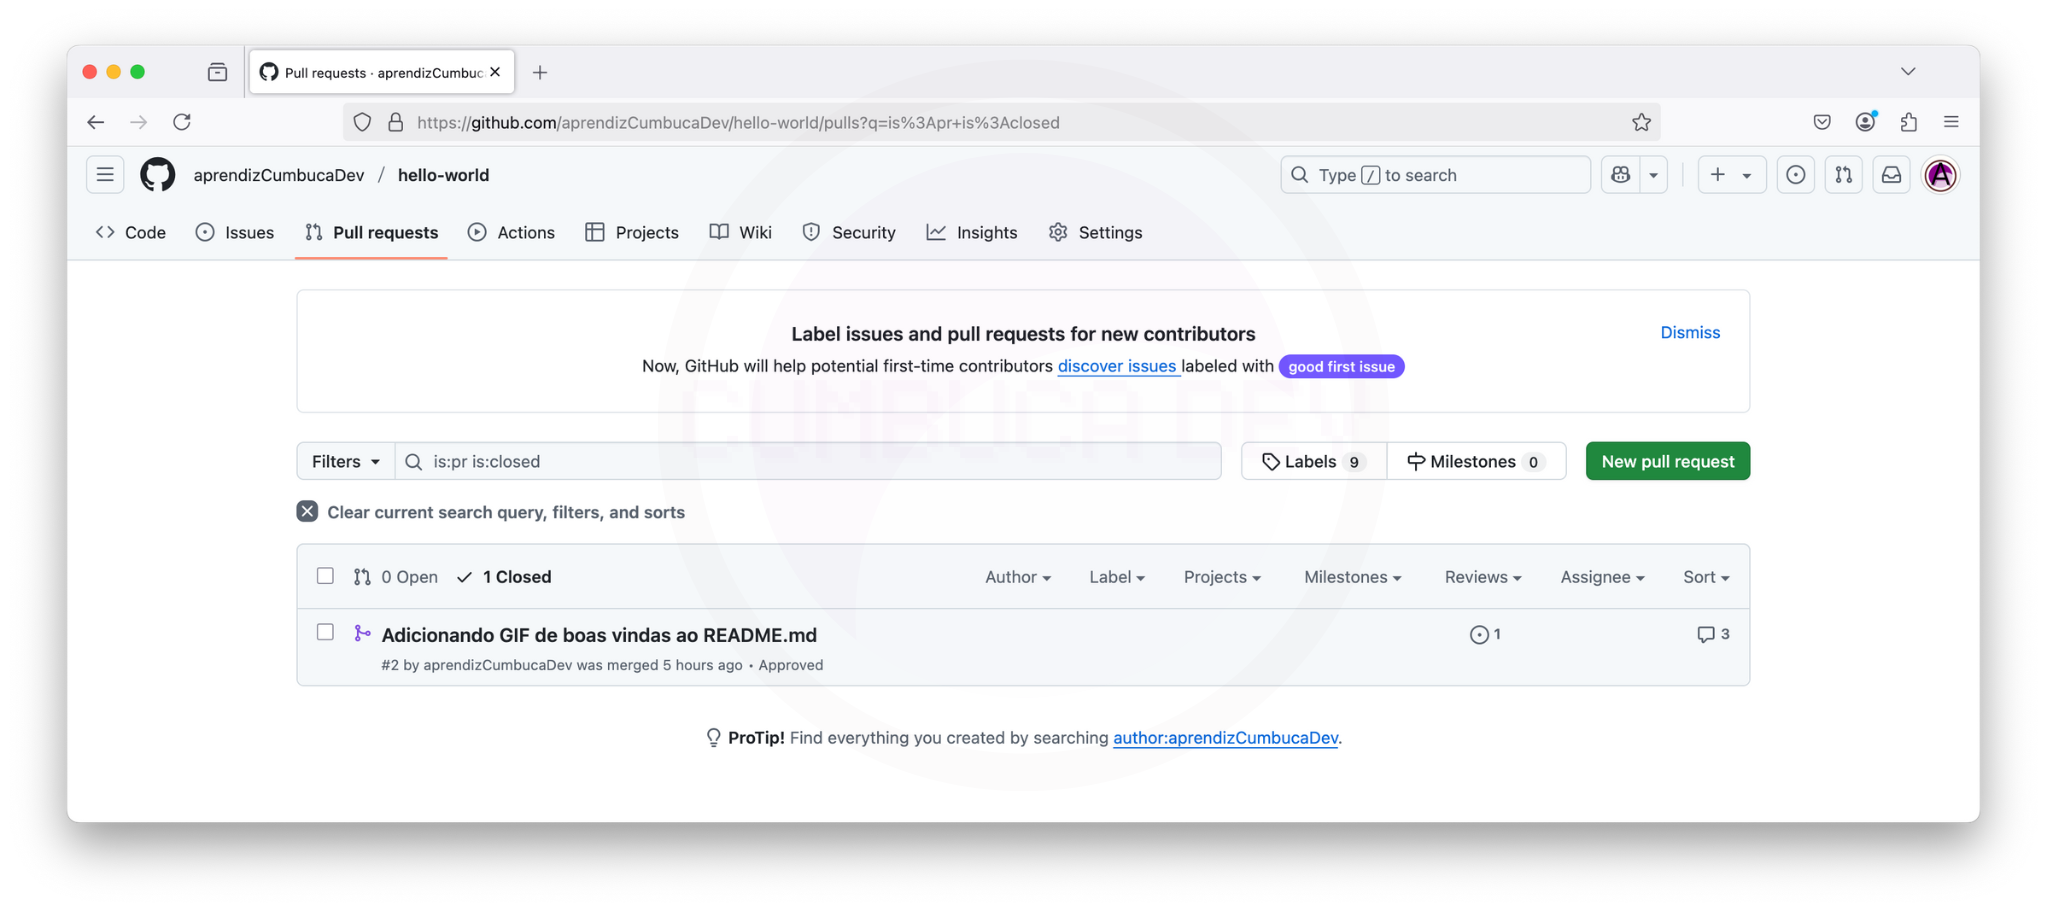
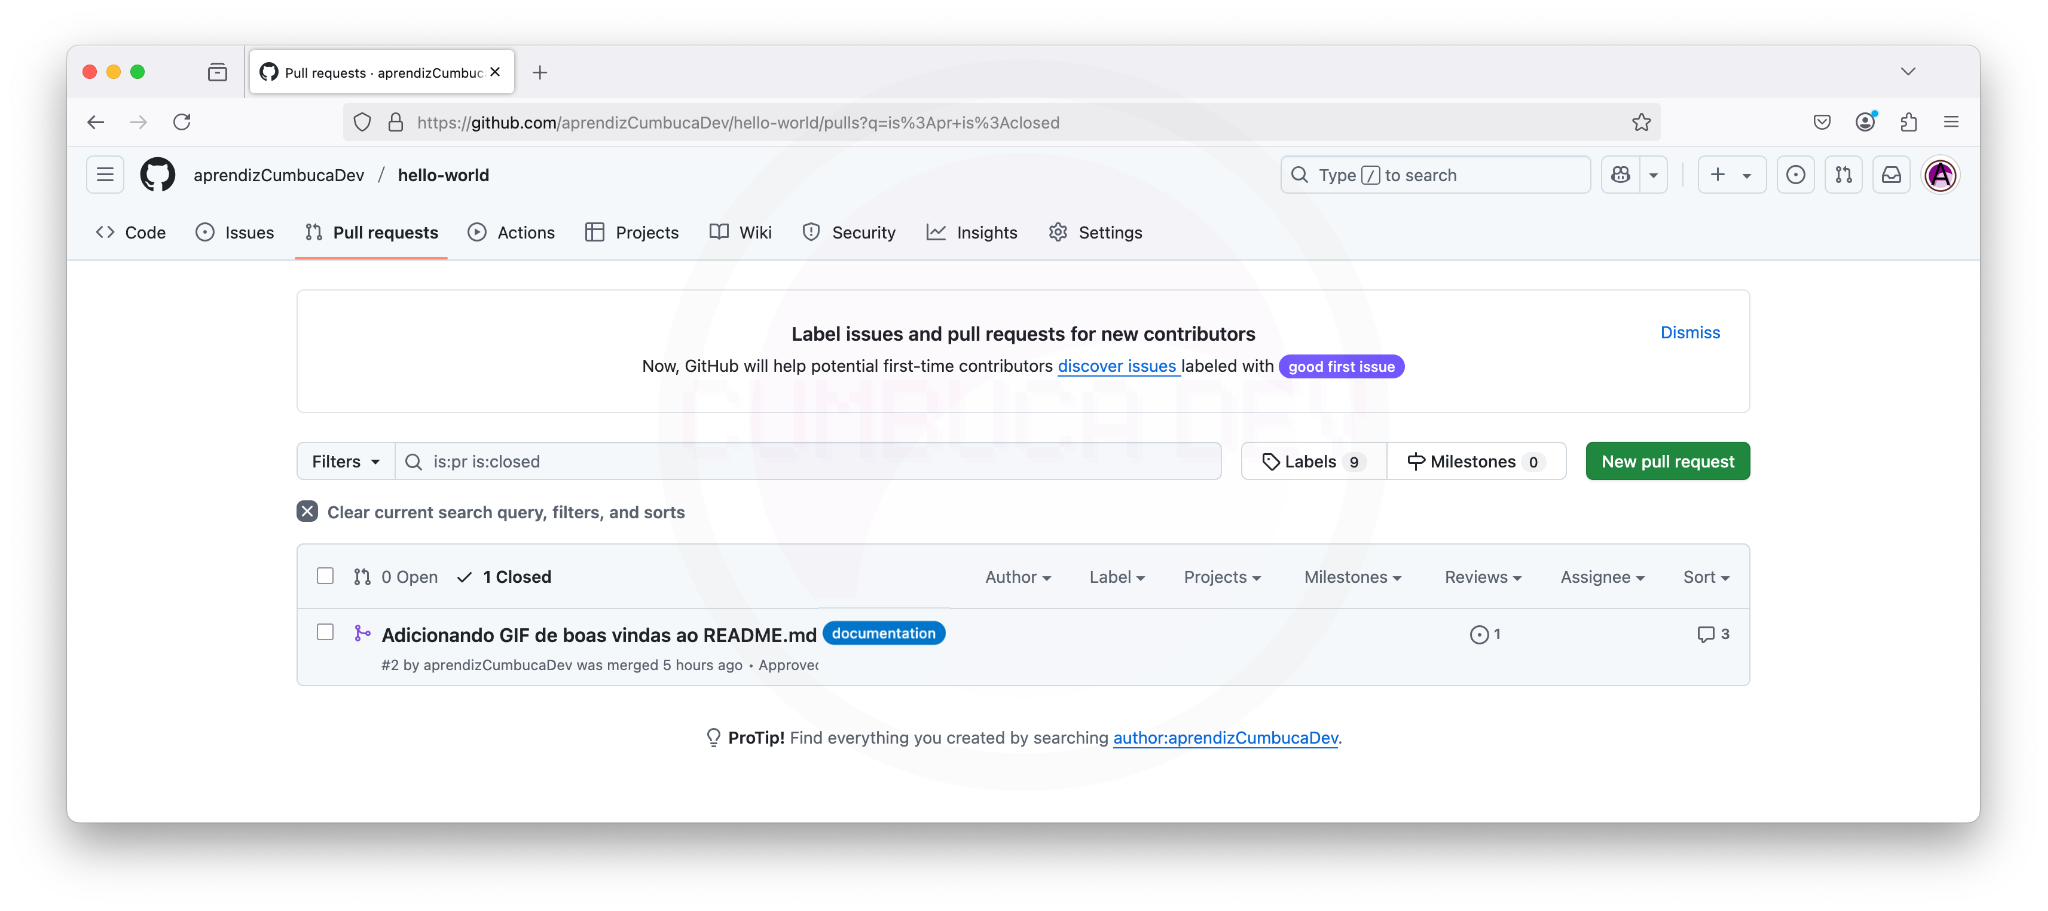
GITBOOK-226: Aba Pull Requests

Changed region(s): [[0.5625, 0.7991, 0.6562, 0.8299], [0.375, 0.6762, 0.4688, 0.7069]]

diff --git a/ebook/dia-10-meu-primeiro-pr/aba-pull-requests.md b/ebook/dia-10-meu-primeiro-pr/aba-pull-requests.md
@@ -1,2 +1,80 @@
 # Aba Pull Requests
 
+A aba Pull Requests de um repositório no GitHub lista todos os PRs de um repositório, permitindo que você visualize, busque e filtre as contribuições registradas. Esta página é muitíssimo semelhante à [aba-issues.md](../dia-8-minha-primeira-issue/aba-issues.md "mention"), mas voltada especificamente para PRs. Aqui, abordaremos os elementos essenciais para que você possa navegar e utilizar essa ferramenta de maneira simples e eficiente.
+
+<figure><img src="../.gitbook/assets/157 aba Pull requests (3).png" alt=""><figcaption><p>Aba Pull requests do repositório <a href="https://github.com/aprendizCumbucaDev/hello-world">https://github.com/aprendizCumbucaDev/hello-world</a></p></figcaption></figure>
+
+## Barra de Busca
+
+A barra de busca permite procurar por PRs específicos dentro do repositório. Você pode digitar palavras-chave para encontrar rapidamente algo relevante.
+
+**Exemplo de uso:** Digite "GIF" para encontrar todos os PRs que mencionam essa palavra.
+
+Se quiser usar filtros mais avançados na busca, consulte a [documentação oficial do GitHub](https://docs.github.com/pt/issues/tracking-your-work-with-issues/using-issues/filtering-and-searching-issues-and-pull-requests).
+
+<figure><img src="../.gitbook/assets/158 aba Pull requests 2.png" alt=""><figcaption><p>Barra de busca</p></figcaption></figure>
+
+## Botão "Labels"
+
+O botão "Labels", localizado logo ao lado da barra de busca, leva à página de gerenciamento de labels do repositório ([gerenciando-labels.md](../dia-8-minha-primeira-issue/labels/gerenciando-labels.md "mention")).. Lá, é possível criar, editar e excluir labels utilizadas para categorizar os PRs.
+
+<figure><img src="../.gitbook/assets/image (85).png" alt="" width="174"><figcaption><p>Botão Labels</p></figcaption></figure>
+
+## Botão "New Pull Request"
+
+O botão "New Pull Request" permite criar um novo PR no repositório. Utilize-o para sugerir mudanças no código, revisar alterações e colaborar com o desenvolvimento do projeto ([criando-um-pr-no-github.md](criando-um-pr-no-github.md "mention")).
+
+<figure><img src="../.gitbook/assets/image (114).png" alt="" width="168"><figcaption><p>Botão New pull request</p></figcaption></figure>
+
+## Cabeçalho da Lista de Pull Requests
+
+<figure><img src="../.gitbook/assets/159 aba Pull requests 3.png" alt=""><figcaption><p>Cabeçalho da lista de pull Requests</p></figcaption></figure>
+
+### Checkbox para Selecionar ou Desselecionar Tudo
+
+No cabeçalho da lista de PRs, há um checkbox que permite selecionar ou desmarcar todos os PRs visíveis na página. Isso facilita a aplicação de ações em lote, como fechar múltiplos PRs de uma vez.
+
+### Filtros
+
+Logo abaixo da barra de busca, há filtros prontos que ajudam a visualizar os PRs de acordo com seu status. Os principais para este momento são:
+
+* **Open (Abertos)**: Exibe apenas PRs que ainda estão pendentes de revisão ou aprovação.
+* **Closed (Fechados)**: Exibe apenas PRs que já foram concluídos.
+* **Author (Pessoa Autora)**: Filtra os PRs criados por uma pessoa específica.
+* **Labels (Etiquetas)**: Permite visualizar PRs associados a determinadas etiquetas. Basta clicar no filtro "Labels" e selecionar uma ou mais etiquetas para encontrar PRs categorizados de maneira específica.
+
+### Ordenação dos Pull Requests
+
+Por padrão, os PRs são exibidos dos mais recentes para os mais antigos. Você pode mudar essa ordenação clicando no botão **Sort by** e escolhendo outras opções:
+
+<figure><img src="../.gitbook/assets/160 aba Pull requests 4.png" alt="" width="375"><figcaption><p>Botão de ordenação de pull requests</p></figcaption></figure>
+
+* **Newest (Mais recentes)**: Exibe os PRs mais novos primeiro.
+* **Oldest (Mais antigos)**: Exibe os PRs mais antigos primeiro.
+* **Most commented (Mais comentados)**: Ordena os PRs pelo número de comentários, dos mais comentados para os menos comentados.
+* **Least commented (Menos comentados)**: Ordena os PRs do menos comentado para o mais comentado.
+* **Recently updated (Atualizados recentemente)**: Ordena os PRs pela data da última atualização, dos mais recentes para os mais antigos.
+* **Least recently updated (Menos recentemente atualizados)**: Ordena os PRs pela última atualização, dos mais antigos para os mais recentes.
+* **Best match (Melhor correspondência)**: Exibe os PRs mais relevantes para a sua busca.
+
+Além dessas opções, você pode ordenar os PRs com base no número de reações que receberam. Isso permite visualizar quais PRs tiveram maior engajamento da comunidade, como aprovação, entusiasmo ou críticas. A seleção das reações pode ser feita a partir de uma lista de emojis representando diferentes tipos de feedback.
+
+## Lista de Pull Requests
+
+Aqui é onde estão disponíveis todos os PRs do repositório. A lista de PRs exibirá os resultados conforme os filtros aplicados, a ordenação selecionada e os termos digitados na barra de busca. Cada PR aparece como um cartão contendo:
+
+<figure><img src="../.gitbook/assets/161 aba Pull requests 5.png" alt=""><figcaption><p>Representação de um pull request na lista de pull requests</p></figcaption></figure>
+
+* Caixa de seleção para ações em lote;
+* O título do PR (que resume a alteração proposta);
+* O número do PR (um identificador único);
+* Quem abriu o PR e quando;
+* O número de issues relacionadas ao PR;
+* O número de comentários que o PR recebeu;
+* Labels, para facilitar a identificação da categoria.
+
+Clique em um PR para acessar diretamente a página desse PR.
+
+***
+
+A aba **Pull Requests** no GitHub é essencial para acompanhar e revisar mudanças no código dentro de um projeto. Por enquanto, focamos apenas no básico para você começar. Conforme for ganhando experiência, você pode explorar outras funções mais avançadas, como revisões de código e merge strategies.

diff --git a/ebook/dia-8-minha-primeira-issue/aba-issues.md b/ebook/dia-8-minha-primeira-issue/aba-issues.md
@@ -2,9 +2,9 @@
 
 A página principal de Issues no GitHub lista todas as issues de um repositório, permitindo que você visualize, busque e filtre as tarefas registradas. Aqui, abordaremos os elementos essenciais para que você possa navegar e utilizar essa ferramenta de maneira simples e eficiente.
 
-<figure><img src="../.gitbook/assets/49_ Aba Issues com issue.png" alt=""><figcaption><p>Aba issues do repositório <a href="https://github.com/aprendizCumbucaDev/hello-world">https://github.com/aprendizCumbucaDev/hello-world</a></p></figcaption></figure>
+<figure><img src="../.gitbook/assets/49_ Aba Issues com issue.png" alt=""><figcaption><p>Aba Issues do repositório <a href="https://github.com/aprendizCumbucaDev/hello-world">https://github.com/aprendizCumbucaDev/hello-world</a></p></figcaption></figure>
 
-## Barra de busca
+## Barra de Busca
 
 A barra de busca permite procurar por issues específicas dentro do repositório. Você pode digitar palavras-chave para encontrar rapidamente algo relevante.
 
@@ -24,7 +24,7 @@ O botão "Labels", localizado logo ao lado da barra de busca, leva à página de
 
 O botão "New Issue" permite criar uma nova issue no repositório. Utilize-o para relatar problemas, sugerir melhorias ou registrar tarefas pendentes ([criando-uma-issue-no-github.md](criando-uma-issue-no-github.md "mention")).&#x20;
 
-<figure><img src="../.gitbook/assets/image (86).png" alt="" width="171"><figcaption><p>Botão New Issue</p></figcaption></figure>
+<figure><img src="../.gitbook/assets/image (86).png" alt="" width="171"><figcaption><p>Botão New issue</p></figcaption></figure>
 
 ## Cabeçalho da Lista de Issues
 

diff --git a/ebook/SUMMARY.md b/ebook/SUMMARY.md
@@ -167,8 +167,8 @@
     * [Adicionando Conta Colaboradora](dia-10-meu-primeiro-pr/revisao-de-pr/exemplo/adicionando-conta-colaboradora.md)
     * [Pedindo Revisão de Pull Request](dia-10-meu-primeiro-pr/revisao-de-pr/exemplo/pedindo-revisao-de-pull-request.md)
     * [Lidando com o Feedback](dia-10-meu-primeiro-pr/revisao-de-pr/exemplo/lidando-com-o-feedback.md)
-* [Mesclando um PR](dia-10-meu-primeiro-pr/mesclando-um-pr/README.md)
-  * [Exemplo](dia-10-meu-primeiro-pr/mesclando-um-pr/exemplo.md)
+* [Mesclando um PR](dia-10-meu-primeiro-pr/mesclando-prs.md)
+  * [Exemplo](dia-10-meu-primeiro-pr/mesclando-prs/exemplo.md)
 * [Atualizando Repositório Local Após Mesclagem](dia-10-meu-primeiro-pr/atualizando-repositorio-local-apos-mesclagem.md)
 * [PRs no Mundo Real](dia-10-meu-primeiro-pr/prs-no-mundo-real.md)
 * [Links Úteis - Dia 10](dia-10-meu-primeiro-pr/links-uteis-dia-10.md)

diff --git a/ebook/dia-10-meu-primeiro-pr/mesclando-prs.md b/ebook/dia-10-meu-primeiro-pr/mesclando-prs.md
@@ -130,7 +130,7 @@ Caso esteja contribuindo para um projeto já estabelecido, siga as diretrizes de
 2. Acesse a aba **Pull Requests**.
 3. Escolha o PR que deseja mesclar.
 4. Revise o código e verifique se passou nos testes.
-5. Clique no botão verde **Merge pull request** na seção **Verificação de Status** da [aba-conversation.md](../pagina-do-pr/aba-conversation.md "mention").
+5. Clique no botão verde **Merge pull request** na seção **Verificação de Status** da [aba-conversation.md](pagina-do-pr/aba-conversation.md "mention").
 6. Escolha o método de mesclagem.
 7. Confirme clicando em **Confirm merge**.
 
